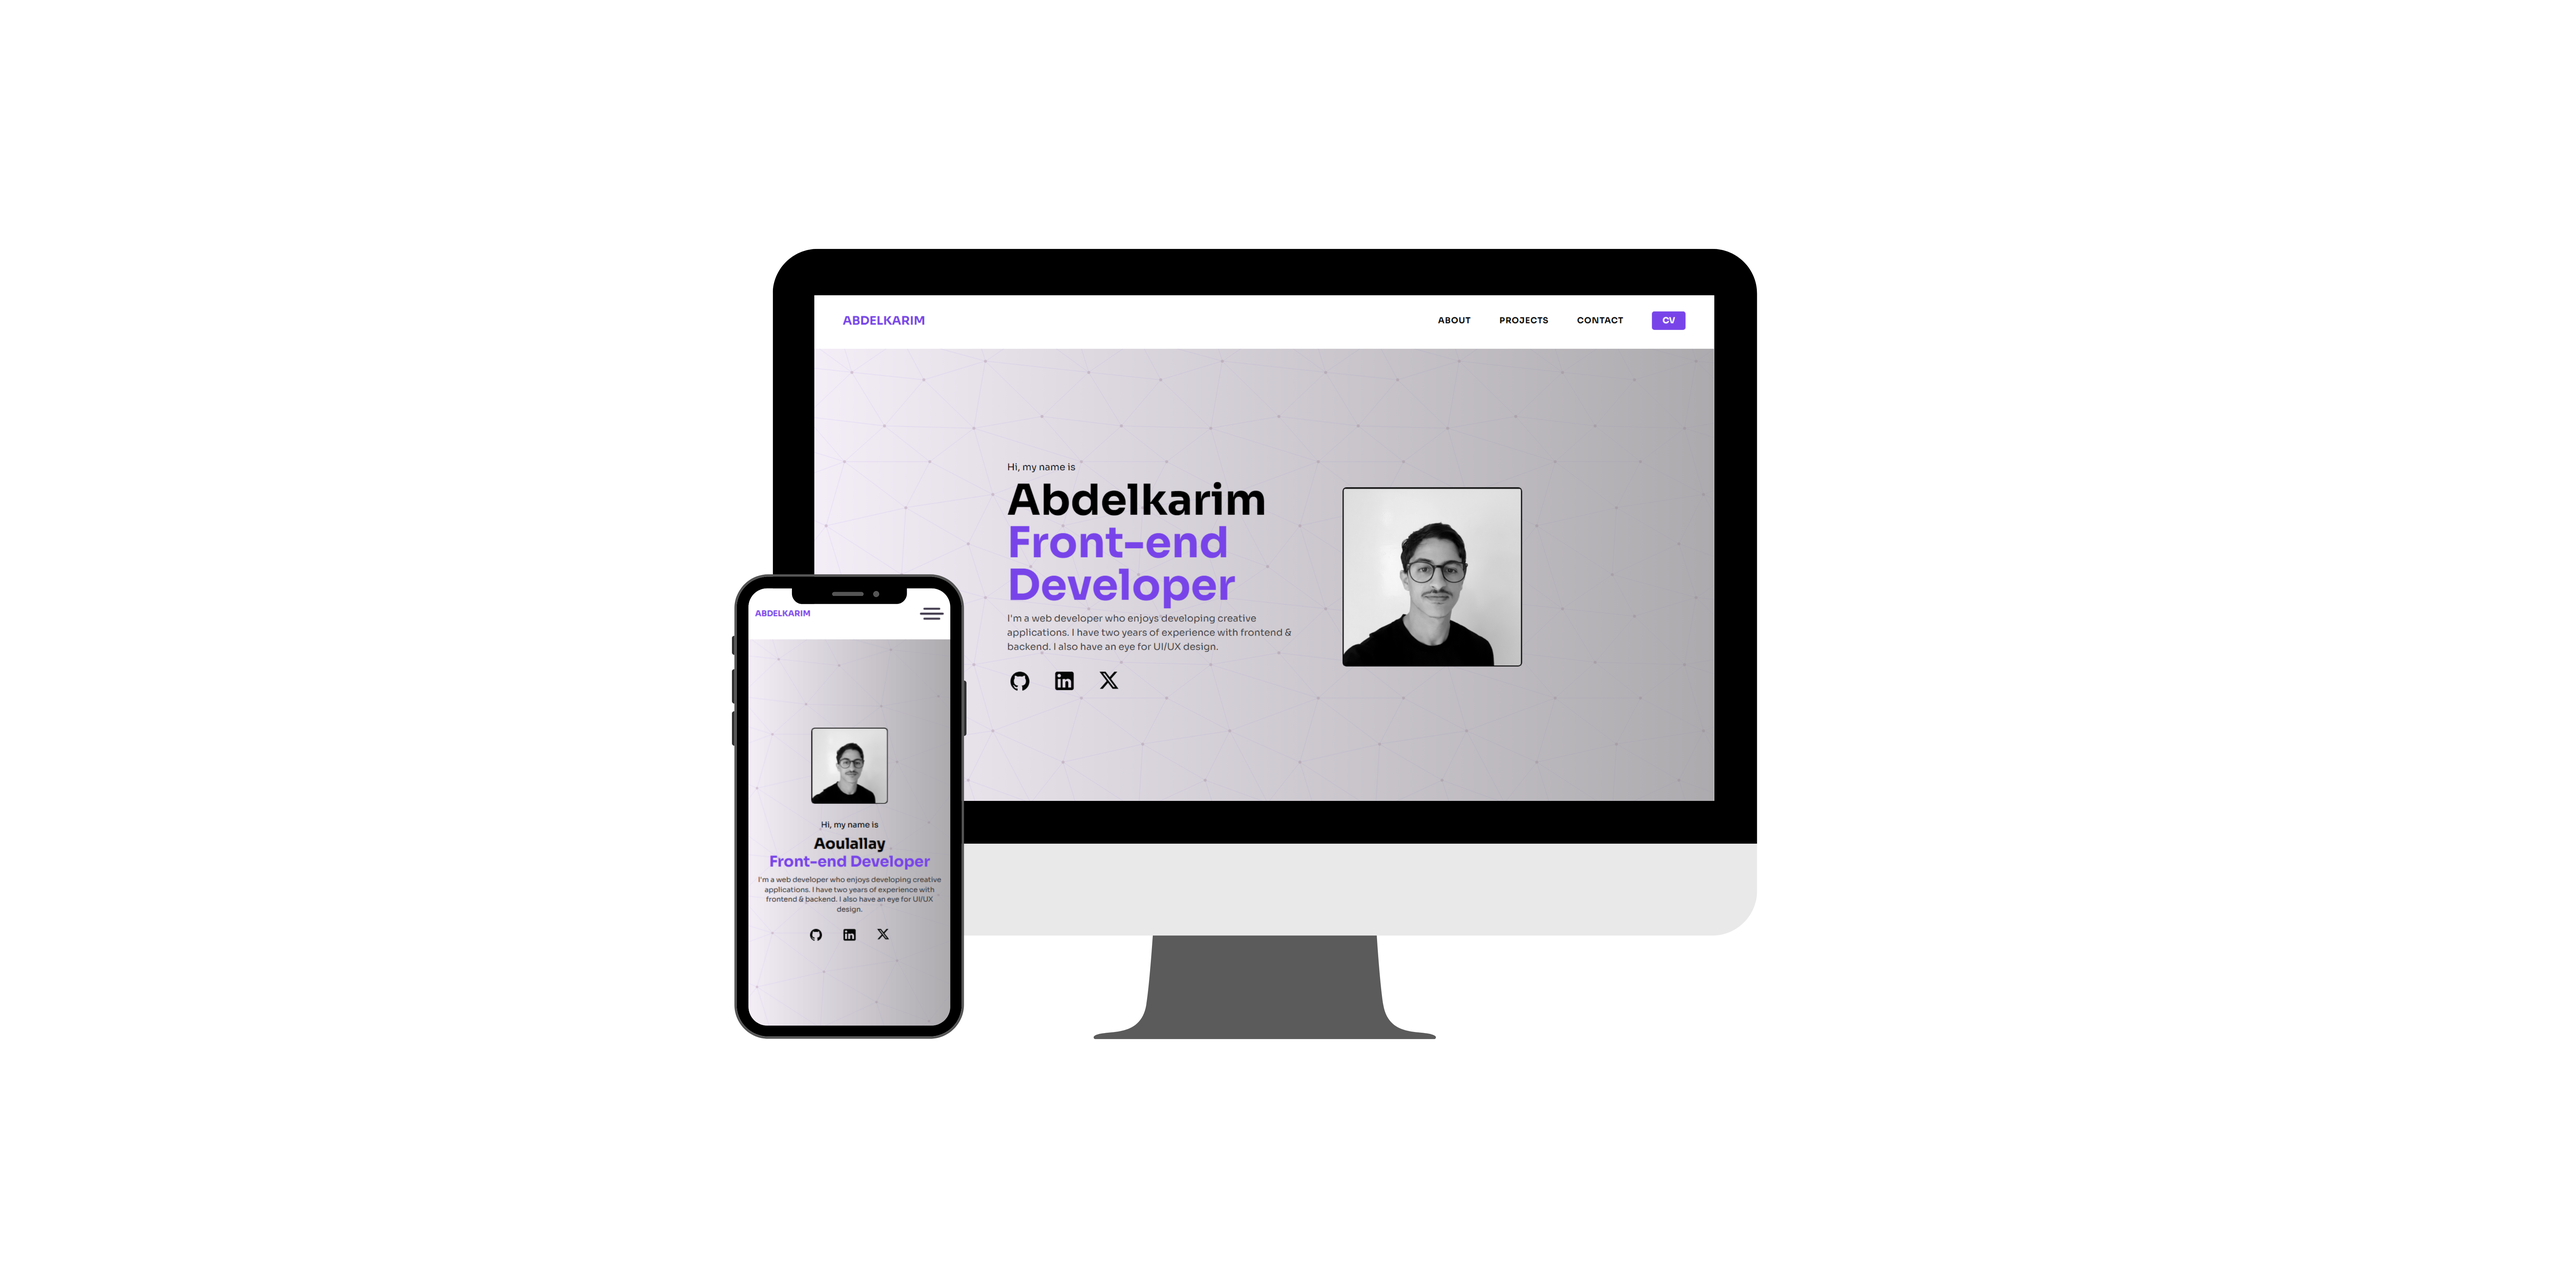
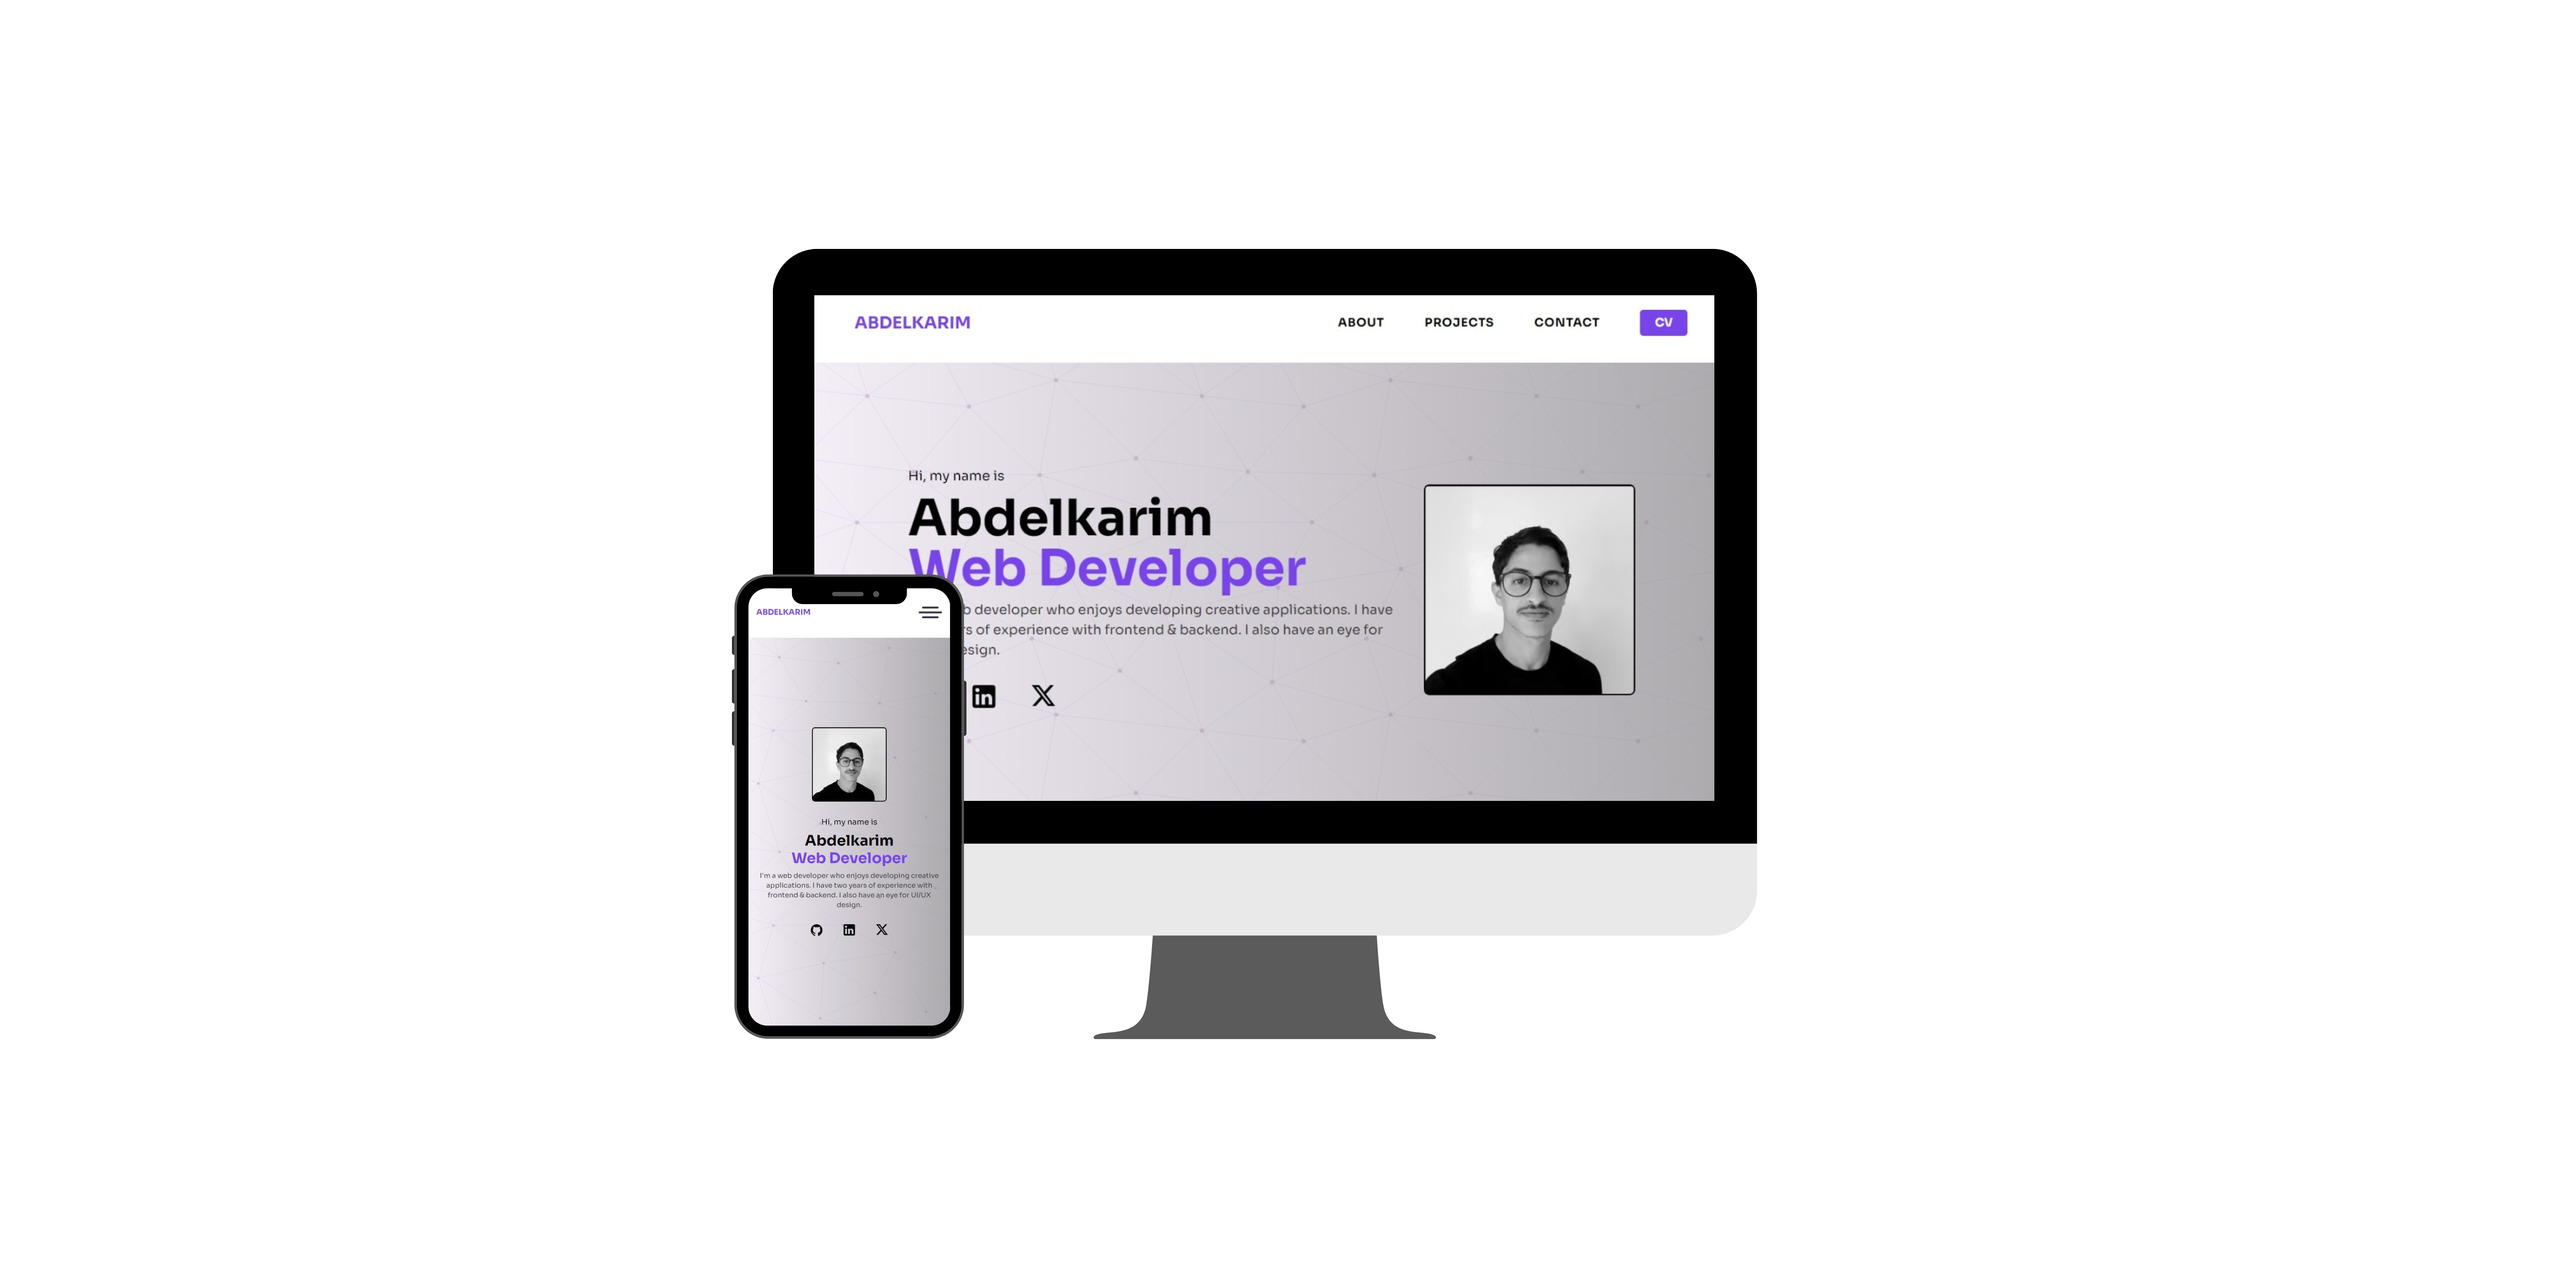
update profile

diff --git a/src/components/Hero.jsx b/src/components/Hero.jsx
@@ -33,7 +33,7 @@ const Hero = () => {
               className="font-bold text-3xl text-accent mb-2
               md:text-5xl lg:text-6xl xl:text-7xl"
             >
-              Front-end Developer
+              Web Developer
             </h1>
             <p
               className="mb-6 text-sm text-paragraph
